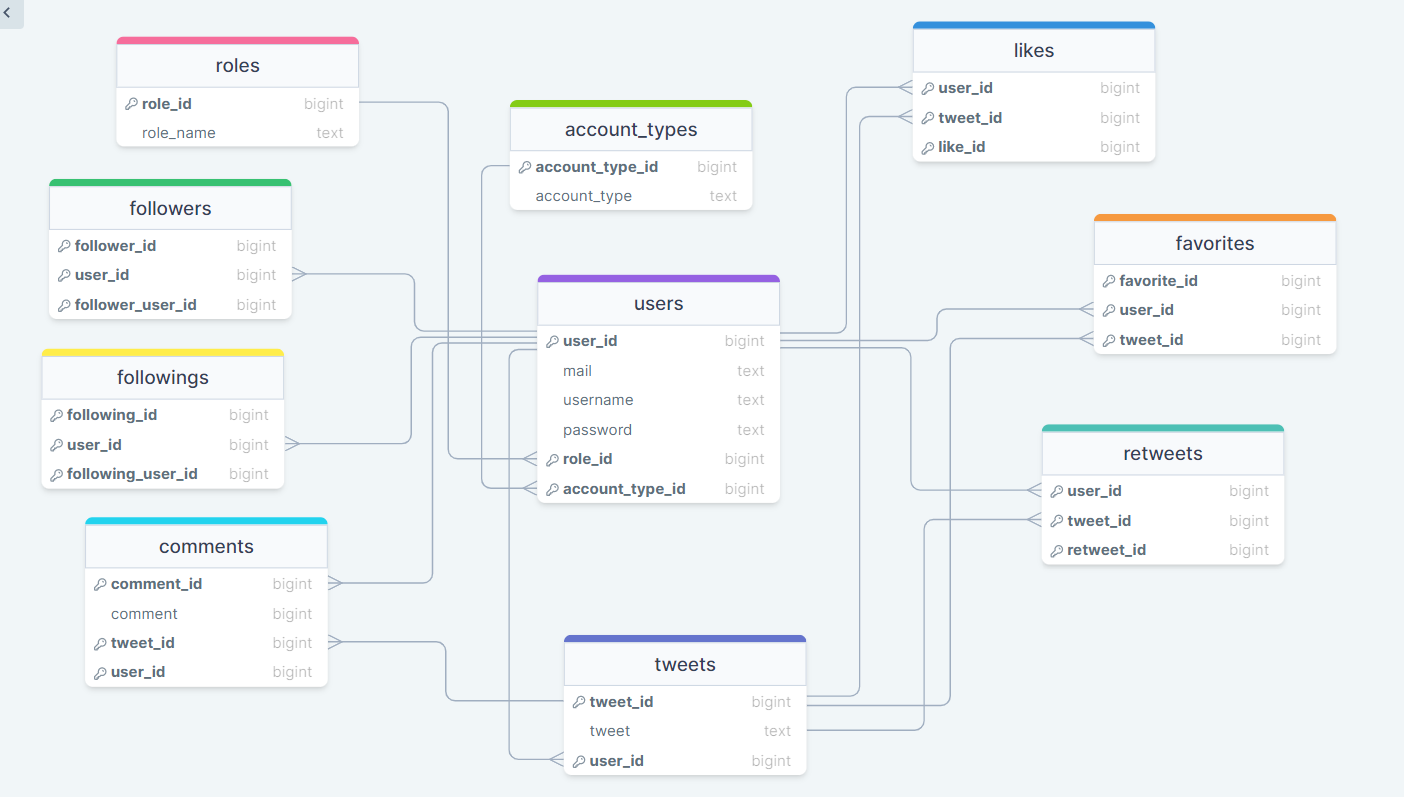
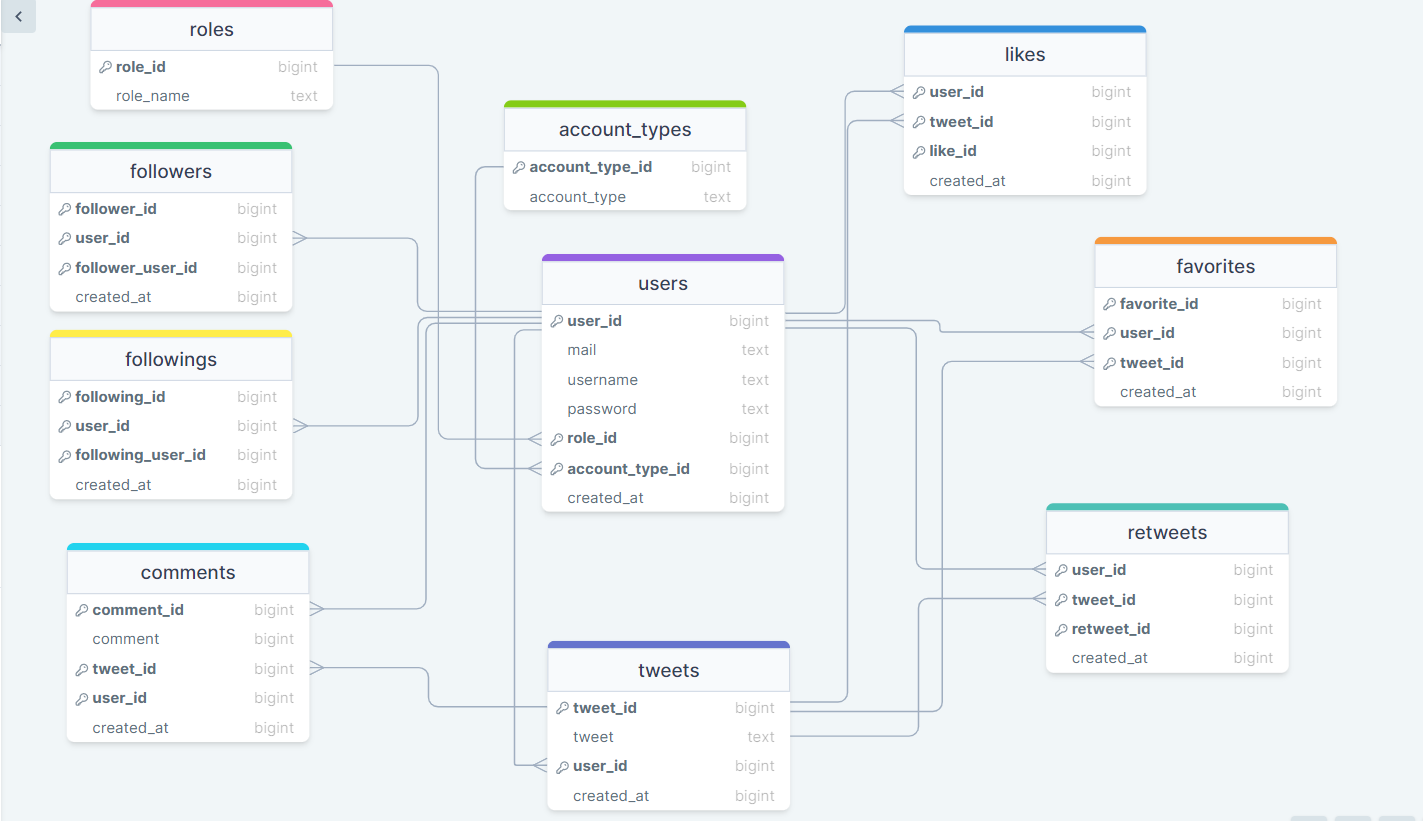
timestamp eklendi

diff --git a/api/tweet/tweet-model.js b/api/tweet/tweet-model.js
@@ -8,6 +8,7 @@ const getAll = async () => {
     .select(
       "t.tweet_id",
       "t.tweet",
+      "t.created_at",
       "u.user_id",
       "u.username",
       "a.account_type_name"
@@ -19,9 +20,11 @@ const getBy = (filter) => {
   return db("tweets as t")
     .leftJoin("users as u", "t.user_id", "u.user_id")
     .leftJoin("account_types as a", "a.account_type_id", "u.account_type_id")
+    .leftJoin("roles as r", "u.role_id", "r.role_id")
     .select(
       "t.tweet_id",
       "t.tweet",
+      "t.created_at",
       "u.user_id",
       "u.username",
       "a.account_type_name"
@@ -33,6 +36,7 @@ const getById = async (tweet_id) => {
   const tweet = await db("tweets as t")
     .leftJoin("users as u", "t.user_id", "u.user_id")
     .leftJoin("account_types as a", "a.account_type_id", "u.account_type_id")
+    .leftJoin("roles as r", "u.role_id", "r.role_id")
     .where("t.tweet_id", tweet_id);
   if (!tweet || tweet.length === 0) {
     return [];
@@ -41,7 +45,8 @@ const getById = async (tweet_id) => {
   let tweetSchema = {
     tweet_id: tweet[0].tweet_id,
     tweet: tweet[0].tweet,
-    user_id:tweet[0].user_id,
+    created_at: tweet[0].created_at,
+    user_id: tweet[0].user_id,
     username: tweet[0].username,
     account_type_name: tweet[0].account_type_name,
     comments: [],
@@ -79,19 +84,34 @@ const remove = (tweet_id) => {
 };
 
 const getLikes = async (user_id) => {
-  const likes = await db("likes as r")
-    .leftJoin("tweets as t", "t.tweet_id", "r.tweet_id")
-    .leftJoin("users as u", "u.user_id", "r.user_id")
-    .select("r.like_id", "t.tweet_id", "t.tweet", "u.user_id", "u.username").where("u.user_id",user_id);
+  const likes = await db("likes as l")
+    .leftJoin("tweets as t", "t.tweet_id", "l.tweet_id")
+    .leftJoin("users as u", "u.user_id", "l.user_id")
+    .select(
+      "l.like_id",
+      "l.created_at",
+      "t.tweet_id",
+      "t.tweet",
+      "u.user_id",
+      "u.username"
+    )
+    .where("u.user_id", user_id);
   return likes;
 };
 
 const getLike = async (tweet_id) => {
-  const likes = await db("likes as r")
-    .leftJoin("tweets as t", "t.tweet_id", "r.tweet_id")
-    .leftJoin("users as u", "u.user_id", "r.user_id")
-    .select("r.like_id", "t.tweet_id", "t.tweet", "u.user_id", "u.username")
-    .where("r.tweet_id", tweet_id);
+  const likes = await db("likes as l")
+    .leftJoin("tweets as t", "t.tweet_id", "l.tweet_id")
+    .leftJoin("users as u", "u.user_id", "l.user_id")
+    .select(
+      "l.like_id",
+      "l.created_at",
+      "t.tweet_id",
+      "t.tweet",
+      "u.user_id",
+      "u.username"
+    )
+    .where("l.tweet_id", tweet_id);
 
   const likeSchema = {
     likeDetails: likes,
@@ -104,15 +124,23 @@ const postLike = (likeids) => {
   return db("likes").insert(likeids);
 };
 
-const deleteLike=(likeids)=>{
+const deleteLike = (likeids) => {
   return db("likes").delete(likeids);
-}
+};
 
 const getRetweetsByUserId = async (user_id) => {
   const retweets = await db("retweets as r")
     .leftJoin("tweets as t", "t.tweet_id", "r.tweet_id")
     .leftJoin("users as u", "u.user_id", "r.user_id")
-    .select("r.retweet_id", "t.tweet_id", "t.tweet", "u.user_id", "u.username").where("u.user_id",user_id);
+    .select(
+      "r.retweet_id",
+      "r.created_at",
+      "t.tweet_id",
+      "t.tweet",
+      "u.user_id",
+      "u.username"
+    )
+    .where("u.user_id", user_id);
   return retweets;
 };
 
@@ -120,7 +148,14 @@ const getRetweet = async (tweet_id) => {
   const retweet = await db("retweets as r")
     .leftJoin("tweets as t", "t.tweet_id", "r.tweet_id")
     .leftJoin("users as u", "u.user_id", "r.user_id")
-    .select("r.retweet_id", "t.tweet_id", "t.tweet", "u.user_id", "u.username")
+    .select(
+      "r.retweet_id",
+      "r.created_at",
+      "t.tweet_id",
+      "t.tweet",
+      "u.user_id",
+      "u.username"
+    )
     .where("r.tweet_id", tweet_id);
 
   const retweetSchema = {
@@ -134,9 +169,9 @@ const postRetweet = async (retweetIds) => {
   return db("retweets").insert(retweetIds);
 };
 
-const deleteRetweet=(retweetids)=>{
+const deleteRetweet = (retweetids) => {
   return db("retweets").delete(retweetids);
-}
+};
 
 const getFavorites = async (user_id) => {
   const favorites = await db("favorites as f")
@@ -144,18 +179,27 @@ const getFavorites = async (user_id) => {
     .leftJoin("users as u", "u.user_id", "f.user_id")
     .select(
       "f.favorite_id",
+      "f.created_at",
       "t.tweet_id",
       "t.tweet",
       "u.user_id",
       "u.username"
-    ).where("u.user_id",user_id);
+    )
+    .where("u.user_id", user_id);
   return favorites;
 };
 const getFavorite = async (tweet_id) => {
   const favorite = await db("favorites as f")
     .leftJoin("tweets as t", "t.tweet_id", "f.tweet_id")
     .leftJoin("users as u", "u.user_id", "f.user_id")
-    .select("f.favorite_id", "t.tweet_id", "t.tweet", "u.user_id", "u.username")
+    .select(
+      "f.favorite_id",
+      "f.created_at",
+      "t.tweet_id",
+      "t.tweet",
+      "u.user_id",
+      "u.username"
+    )
     .where("f.tweet_id", tweet_id);
 
   const favoriteSchema = {
@@ -169,9 +213,9 @@ const postFavorite = (favoriteIds) => {
   return db("favorites").insert(favoriteIds);
 };
 
-const deleteFavorite=(favoriteIds)=>{
+const deleteFavorite = (favoriteIds) => {
   return db("favorites").delete(favoriteIds);
-}
+};
 
 module.exports = {
   getAll,
@@ -191,5 +235,5 @@ module.exports = {
   getFavorites,
   getFavorite,
   postFavorite,
-  deleteFavorite
+  deleteFavorite,
 };

diff --git a/data/migrations/20230410094340_createTwitterTable.js b/data/migrations/20230410094340_createTwitterTable.js
@@ -14,6 +14,7 @@ exports.up = function (knex) {
     })
     .createTable("users", (t) => {
       t.increments("user_id");
+      t.timestamp('created_at').defaultTo(knex.fn.now())
       t.string("username", 20).unique().notNullable();
       t.string("password", 120).notNullable();
       t.string("mail", 30).unique().notNullable();
@@ -34,6 +35,7 @@ exports.up = function (knex) {
     })
     .createTable("tweets", (t) => {
       t.increments("tweet_id");
+      t.timestamp('created_at').defaultTo(knex.fn.now())
       t.string("tweet", 120).unique().notNullable();
       t.integer("user_id")
         .unsigned()
@@ -45,6 +47,7 @@ exports.up = function (knex) {
     })
     .createTable("comments", (t) => {
       t.increments("comment_id");
+      t.timestamp('created_at').defaultTo(knex.fn.now())
       t.string("comment", 65).notNullable();
       t.integer("tweet_id")
         .unsigned()
@@ -63,6 +66,7 @@ exports.up = function (knex) {
     })
     .createTable("likes", (t) => {
       t.increments("like_id");
+      t.timestamp('created_at').defaultTo(knex.fn.now())
       t.integer("tweet_id")
         .unsigned()
         .notNullable()
@@ -80,6 +84,7 @@ exports.up = function (knex) {
     })
     .createTable("retweets", (t) => {
       t.increments("retweet_id");
+      t.timestamp('created_at').defaultTo(knex.fn.now())
       t.integer("tweet_id")
         .unsigned()
         .notNullable()
@@ -97,6 +102,7 @@ exports.up = function (knex) {
     })
     .createTable("favorites", (t) => {
       t.increments("favorite_id");
+      t.timestamp('created_at').defaultTo(knex.fn.now())
       t.integer("tweet_id")
         .unsigned()
         .notNullable()
@@ -113,6 +119,7 @@ exports.up = function (knex) {
         .onDelete("CASCADE");
     }).createTable("followers",t=>{
       t.increments("follower_id")
+      t.timestamp('created_at').defaultTo(knex.fn.now())
       t.integer("follower_user_id").notNullable().unsigned()
       t.integer("user_id")
       .unsigned()
@@ -123,6 +130,7 @@ exports.up = function (knex) {
       .onDelete("CASCADE");
     }).createTable("followings",t=>{
       t.increments("follower_id")
+      t.timestamp('created_at').defaultTo(knex.fn.now())
       t.integer("following_user_id").notNullable().unsigned()
       t.integer("user_id")
       .unsigned()

diff --git a/api/users/users-model.js b/api/users/users-model.js
@@ -3,11 +3,7 @@ const Tweet = require("../tweet/tweet-model");
 const Comment = require("../comment/comment-model");
 
 const getUsers = () => {
-  return db("users as u").leftJoin(
-    "account_types as a",
-    "a.account_type_id",
-    "u.account_type_id"
-  );
+  return db("users as u") .leftJoin("account_types as a", "a.account_type_id", "u.account_type_id").leftJoin("roles as r","u.role_id","r.role_id")
 };
 
 const getBy = (filter) => {
@@ -18,7 +14,7 @@ const getBy = (filter) => {
 
 const getById = async (user_id) => {
   const user = await db("users as u")
-    .leftJoin("account_types as a", "a.account_type_id", "u.account_type_id")
+  .leftJoin("account_types as a", "a.account_type_id", "u.account_type_id").leftJoin("roles as r","u.role_id","r.role_id")
     .where("u.user_id", user_id)
     .first();
 
@@ -30,6 +26,7 @@ const getById = async (user_id) => {
     user_id: user.user_id,
     username: user.username,
     account_type: user.account_type_name,
+    created_at:user.created_at,
     tweets: [],
     followings: [],
     followers: [],

diff --git a/api/comment/comment-model.js b/api/comment/comment-model.js
@@ -12,6 +12,7 @@ const getById = async (comment_id) => {
     .select(
       "c.comment_id",
       "c.comment",
+      "c.created_at",
       "t.tweet_id",
       "t.tweet",
       "u.user_id",
@@ -29,6 +30,7 @@ const getBy = (filter) => {
     .leftJoin("users as u", "u.user_id", "c.user_id")
     .select(
       "c.comment_id",
+      "c.created_at",
       "c.comment",
       "t.tweet_id",
       "t.tweet",
